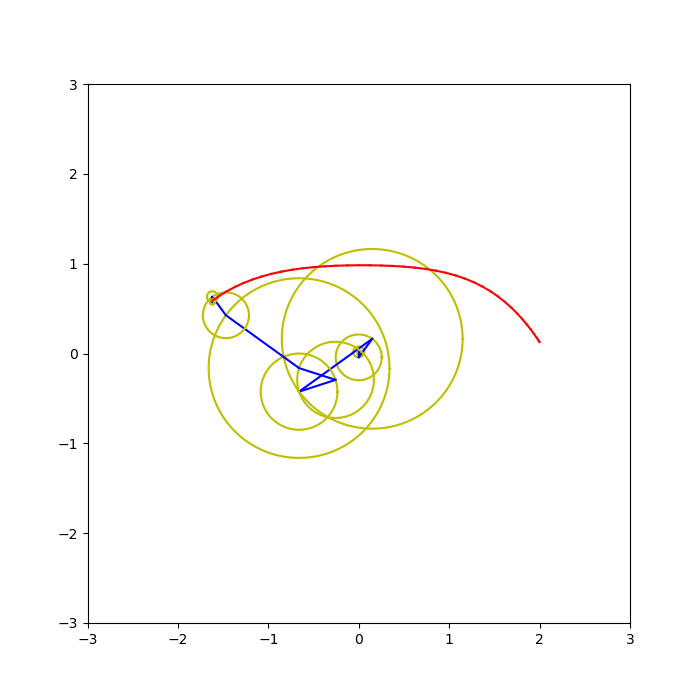
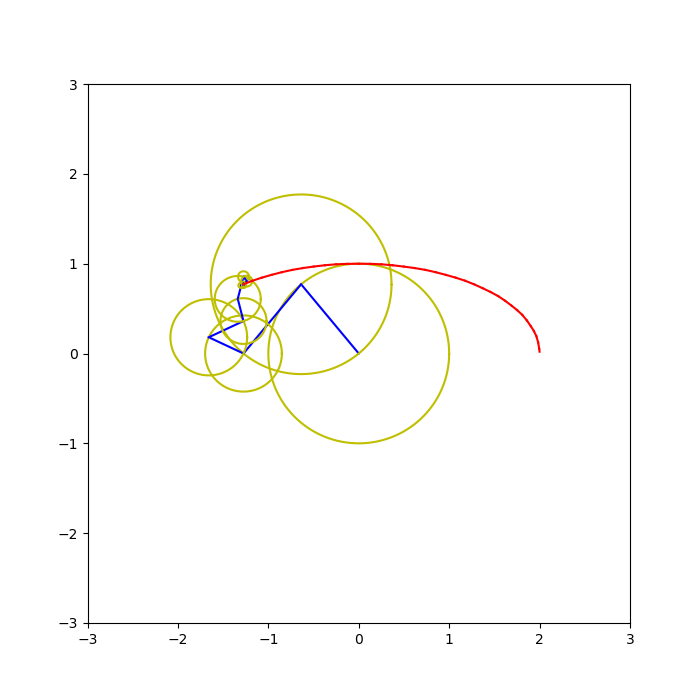
commit

diff --git a/_posts/2022-02-17-fourier.md b/_posts/2022-02-17-fourier.md
@@ -43,12 +43,16 @@ def circle(x,y,r, count=1000):
         xarr.append(x+r*np.cos(j))
         yarr.append(y+r*np.sin(j))
     plt.plot(xarr,yarr,c='y')
-nv = 10# (# of vectors - 1) / 2
+def cmp(elem):
+    return elem[1].real
+nv = 50
 lstconsts = []
 for i in range(-nv,nv+1):
-    lstconsts.append(get_constant(i))
+    cnst=get_constant(i)
+    lstconsts.append([cnst,(cnst.real**2+cnst.imag**2)**0.5,i])
     #print(i)
 #print(lstconsts)
+lstconsts.sort(key=cmp,reverse=True)
 now_time = 0
 plt.figure(figsize=(7,7))
 plt.title("Fourier Series")
@@ -60,7 +64,7 @@ while now_time < 1:
     lstTipVect = 0+0j
     ntip = 0+0j
     for i in range(nv*2+1):
-        ntip = lstTipVect+lstconsts[i]*cmath.e**((i-nv)*2*cmath.pi*(1j)*now_time)
+        ntip = lstTipVect+lstconsts[i][0]*cmath.e**(lstconsts[i][2]*2*cmath.pi*(1j)*now_time)
         plt.plot([lstTipVect.real,ntip.real],[lstTipVect.imag,ntip.imag],'b')
         circle(lstTipVect.real,lstTipVect.imag,((ntip.real-lstTipVect.real)**2+(ntip.imag-lstTipVect.imag)**2)**0.5)
         lstTipVect = ntip
@@ -70,11 +74,11 @@ while now_time < 1:
         plt.plot([connectp[i][0],connectp[i-1][0]],[connectp[i][1],connectp[i-1][1]],'r')
 # print(respoint)
     now_time += delta_t
-    plt.xlim(-2,2)
-    plt.ylim(-2,2)
+    plt.xlim(-3,3)
+    plt.ylim(-3,3)
     plt.pause(0.001)
-    
 plt.show()
+
 
 ```
 毕竟我也不是作动画的，这个动画做的也有所欠缺，但我觉得已经够了。
